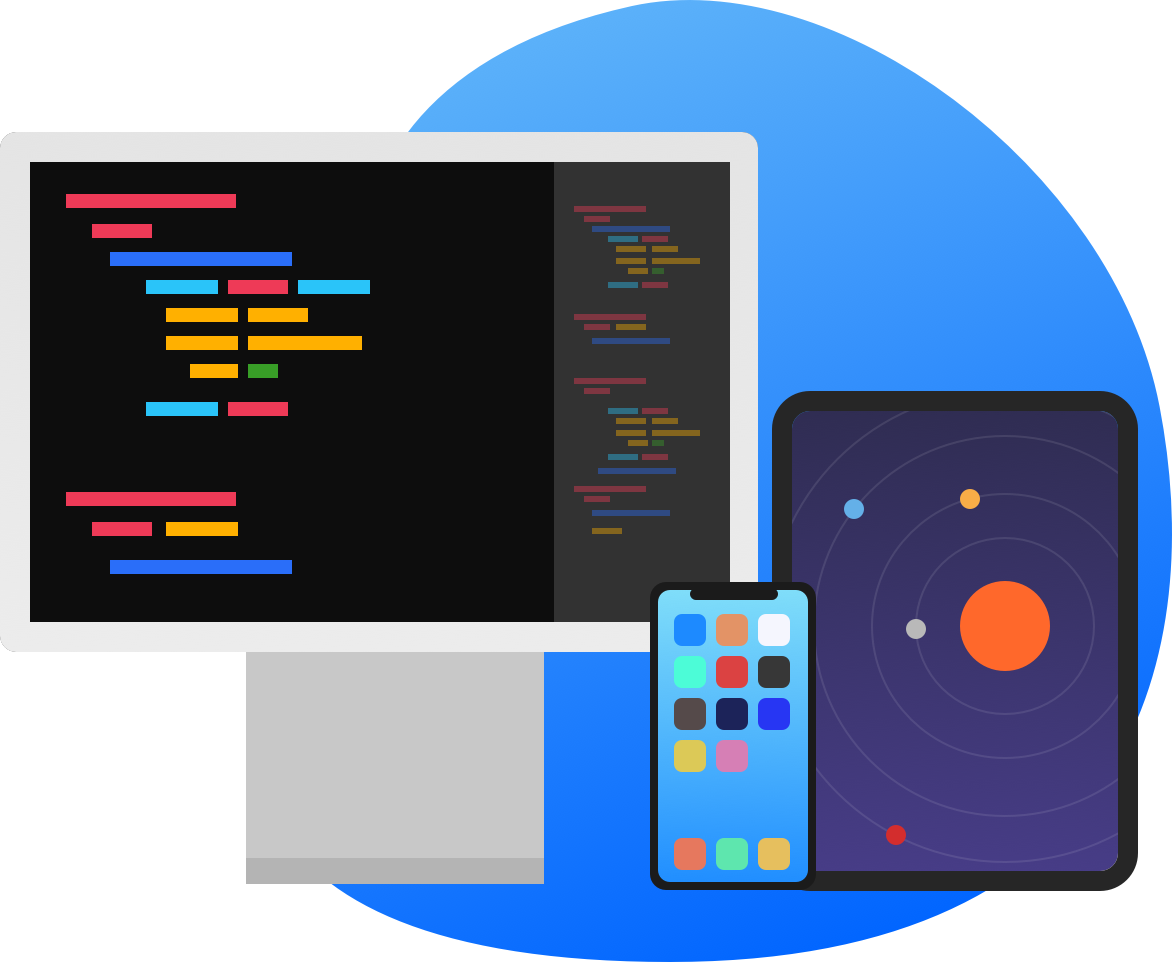
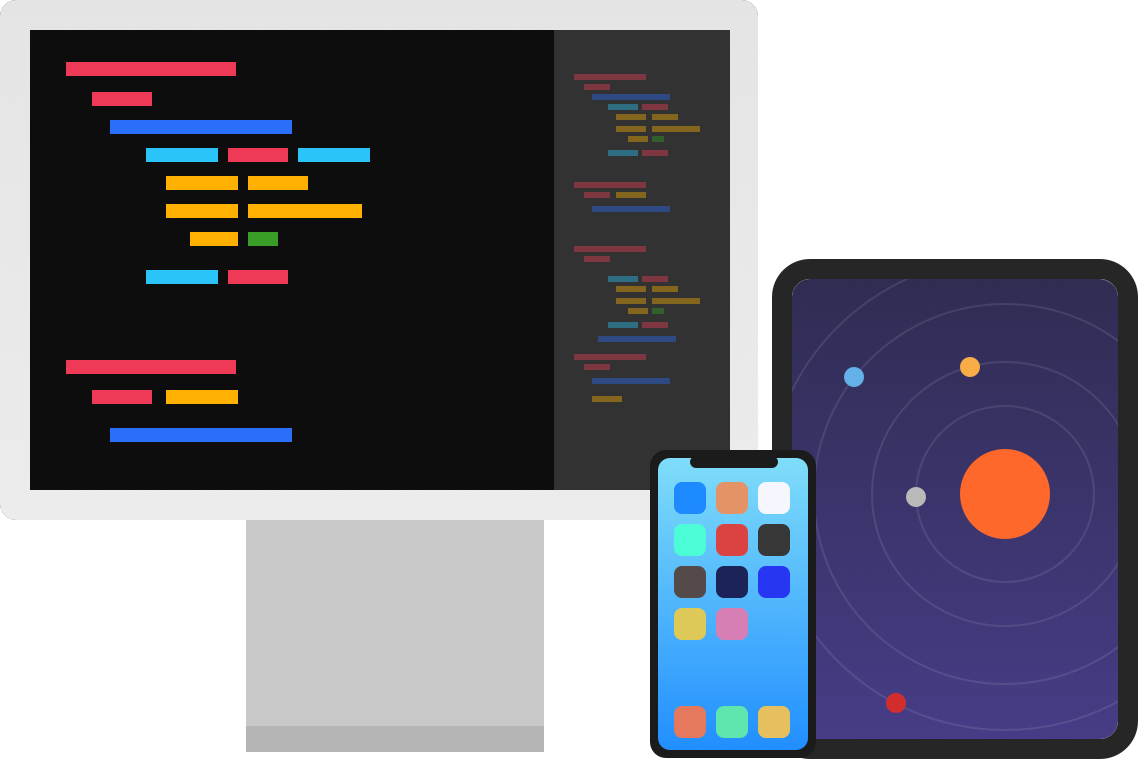
home hero simplify

diff --git a/assets/scss/themes/_theme.scss b/assets/scss/themes/_theme.scss
@@ -154,9 +154,10 @@ header {
 // Home -- Hero 
 
 .home__hero {
-	padding-top:30vh;
-	padding-bottom: 20vh;
+	padding-top:180px;
+	padding-bottom: 30px;
 	position: relative;
+	background: #E9F7FF;
 	
 }
 
@@ -176,17 +177,16 @@ header {
     background-size: 70% auto;
     position: relative;
     margin-top: 20px;
+    top: 80px;
 }
 
 @media screen and (min-width: 40em) {
 	.home__hero__img {
-		height: 80vh;
-		width: 50%;
+		
 		background: url(../img/hero.png) center right no-repeat;
 		background-size: 100% auto;
-		position: absolute;
-		top:45px;
-		left: 50vw;
+		position: relative;
+		top: -80px;
 		max-width: 800px;
 	}
 }

diff --git a/_layouts/index.html b/_layouts/index.html
@@ -6,7 +6,7 @@ layout: default
 <section class="home__hero">
 <div class="grid-container">
   <div class="grid-x grid-margin-x">
-    <div class="cell medium-6">
+    <div class="cell medium-7">
     	
     	<div class="home__hero__tagline">
 	    	<h1>Building Apps? <br> We've got your back</h1>
@@ -15,7 +15,7 @@ layout: default
 
     	<a href="https://oursky.us2.list-manage.com/subscribe?u=34db69ee3e01fe49e12302054&id=7812f36a5a" target="_blank" class="home__hero__cta">Join Beta</a>
     </div>
-    <div class="cell medium-6">
+    <div class="cell medium-5">
     	<div class="home__hero__img">
 
     	</div>

diff --git a/assets/scss/base/_headings.scss b/assets/scss/base/_headings.scss
@@ -3,7 +3,7 @@
 // --------------------------------------------------
 
 
-@import url('https://fonts.googleapis.com/css?family=Raleway:300,400,500,700,800&display=swap');
+@import url('https://fonts.googleapis.com/css?family=Red+Hat+Display:400,400i,500,500i,700,900&display=swap');
 
 body {
     font-family: -apple-system, BlinkMacSystemFont, "Segoe UI", Roboto, Helvetica, Arial, sans-serif, "Apple Color Emoji", "Segoe UI Emoji", "Segoe UI Symbol";
@@ -15,7 +15,7 @@ h3,
 h4,
 h5,
 h6 {
-  font-family: 'Raleway', sans-serif;
+  font-family: 'Red Hat Display', sans-serif;
 }
 
 h1 {
